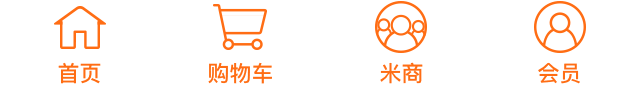
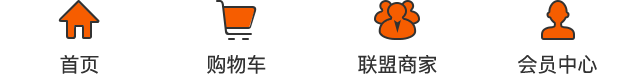
底部菜单

diff --git a/html/css/du.css b/html/css/du.css
@@ -3120,6 +3120,7 @@ td.cash_td2 img {
 	width:100%;
 }
 .agency_bottom{
+	border-top:1px solid #e6e6e6;	
 	background:#fff;
 	position:fixed;
 	left:0;
@@ -3183,39 +3184,47 @@ td.cash_td2 img {
   	height: 49px;
   	text-align: center;	
 }
-#s_sy{
-	background:url(../img/sy1.png) no-repeat center;
-	background-size:40px 36px;
-}
-#s_sy.on{
-	background:url(../img/sy2.png) no-repeat center;
-	background-size:40px 36px;
-}
-#s_gwc{
-	background:url(../img/gwc1.png) no-repeat center;
-	background-size:40px 36px;
-}
-#s_gwc.on{
-	background:url(../img/gwc2.png) no-repeat center;
-	background-size:40px 36px;
-}
-#s_lmsj{
-	background:url(../img/lmsj1.png) no-repeat center;
-	background-size:40px 36px;
-}
-#s_lmsj.on{
-	background:url(../img/lmsj2.png) no-repeat center;
-	background-size:40px 36px;
-}
-#s_hyzx{
-	background:url(../img/hyzx1.png) no-repeat center;
-	background-size:40px 36px;
-}
-#s_hyzx.on{
-	background:url(../img/hyzx2.png) no-repeat center;
-	background-size:40px 36px;
-}
 
+#s_sy {
+	background: url(../img/bot_n.png) no-repeat;
+	background-position: 0px 5px;
+	background-size: auto 37px;
+}
+#s_sy.on {
+	background: url(../img/bot_p.png) no-repeat;
+	background-position: 0 5px;
+	background-size: auto 37px;
+}
+#s_gwc {
+	background: url(../img/bot_n.png) no-repeat;
+	background-position: -78px 5px;
+	background-size: auto 37px;
+}
+#s_gwc.on {
+	background: url(../img/bot_p.png) no-repeat;
+	background-position: -78px 5px;
+	background-size: auto 37px;
+}
+#s_lmsj {
+	background: url(../img/bot_n.png) no-repeat;
+	background-position: -160px 5px;
+	background-size: auto 37px;
+}
+#s_lmsj.on {
+	background: url(../img/bot_p.png) no-repeat;
+	background-position: -160px 5px;
+	background-size: auto 37px;
+}
+#s_hyzx {
+	background: url(../img/bot_n.png) no-repeat;
+	background-position: -240px 5px;	
+	background-size: auto 37px;
+}
+#s_hyzx.on {
+	background: url(../img/bot_p.png) no-repeat;
+	background-position: -240px 5px;
+	background-size: auto 37px;
+}
 
 /* 支付成功*/
 .agency_infos_pay{

diff --git a/html/css/wu.css b/html/css/wu.css
@@ -965,8 +965,8 @@ a.ph_btn{
 }
 
 .is_confirm{
-	top: 55%;
-	left: -20%;
+	top: -35%;
+	left: 30%;
 	-webkit-animation: cartFly .6s ease 0s 1 both;
 	animation: cartFly .6s ease 0s 1 both; 
 }
